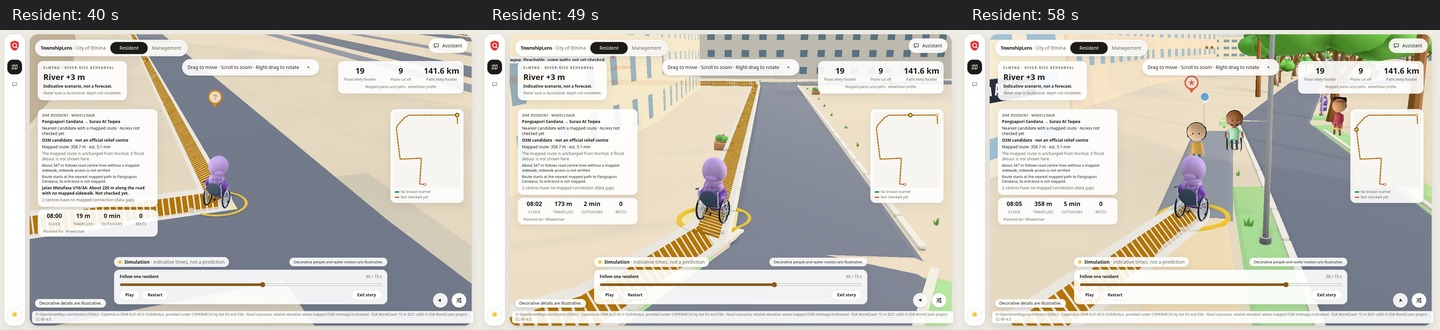
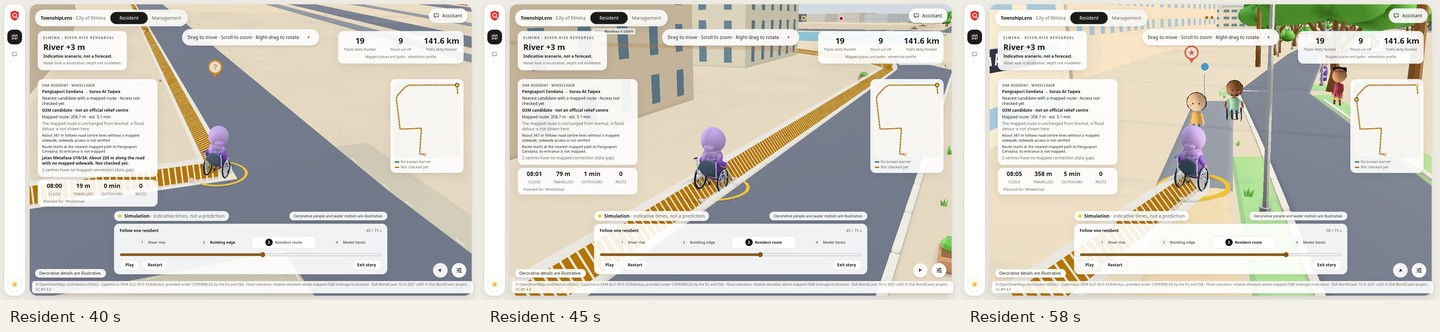
feat(web): add flood viewpoints from the visual reference (T-032)

diff --git a/apps/web/src/features/flood/FloodStoryOverlay.tsx b/apps/web/src/features/flood/FloodStoryOverlay.tsx
@@ -8,7 +8,7 @@ import { usePanel } from "../main/panelStore";
 import { WATER_LOOK_NOTE } from "./floodPresentation";
 import { floodRouteEvidence } from "./floodRouteEvidence";
 import { useFloodStory } from "./floodStoryStore";
-import { floodStateAt } from "./floodTimeline";
+import { BUILDINGS_AT, floodStateAt, RESIDENT_AT } from "./floodTimeline";
 import { impactSummary } from "./impactModel";
 
 export function FloodStoryOverlay() {
@@ -201,6 +201,28 @@ export function FloodStoryOverlay() {
               {Math.round(s.t)} / {Math.round(s.timeline?.total ?? 0)} s
             </span>
           </div>
+          <nav className="flood-chapters" aria-label="River story viewpoints">
+            {[
+              { phase: "river", label: "River rise", at: 0 },
+              { phase: "buildings", label: "Building edge", at: BUILDINGS_AT + 4 },
+              { phase: "resident", label: "Resident route", at: RESIDENT_AT + 1 },
+              { phase: "end", label: "Model limits", at: s.timeline?.endAt ?? 0 },
+            ].map((chapter, index) => (
+              <button
+                key={chapter.phase}
+                type="button"
+                className="flood-chapter"
+                aria-current={p?.phase === chapter.phase ? "step" : undefined}
+                disabled={!s.timeline}
+                onClick={() => s.seek(chapter.at)}
+              >
+                <span className="flood-chapter-dot" aria-hidden="true">
+                  {index + 1}
+                </span>
+                <span>{chapter.label}</span>
+              </button>
+            ))}
+          </nav>
           <input
             className="block w-full accent-lilac"
             type="range"

diff --git a/apps/web/src/features/flood/FloodStoryOverlay.dom.test.tsx b/apps/web/src/features/flood/FloodStoryOverlay.dom.test.tsx
@@ -30,6 +30,29 @@ const story = {
 afterEach(() => act(() => useFloodStory.getState().close()));
 
 describe("river playback UI", () => {
+  it("lets each viewpoint seek the same timeline while preserving pause and honest gaps", () => {
+    useFloodStory.getState().load(story);
+    render(<FloodStoryOverlay />);
+    const river = screen.getByRole("button", { name: "River rise" });
+    const buildings = screen.getByRole("button", { name: "Building edge" });
+    const resident = screen.getByRole("button", { name: "Resident route" });
+    const limits = screen.getByRole("button", { name: "Model limits" });
+    expect(river).toHaveAttribute("aria-current", "step");
+    fireEvent.click(buildings);
+    expect(buildings).toHaveAttribute("aria-current", "step");
+    expect(screen.getByTestId("flood-story")).toHaveAttribute("data-phase", "buildings");
+    fireEvent.click(resident);
+    expect(resident).toHaveAttribute("aria-current", "step");
+    expect(screen.getByRole("status")).toHaveTextContent("No mapped connection (data gap).");
+    expect(screen.queryByTestId("journey-hud")).toBeNull();
+    fireEvent.click(limits);
+    expect(limits).toHaveAttribute("aria-current", "step");
+    expect(screen.getByRole("region", { name: "River scenario limits" })).toBeVisible();
+    fireEvent.click(river);
+    expect(useFloodStory.getState().t).toBe(0);
+    expect(useFloodStory.getState().playing).toBe(false);
+    expect(river).toHaveAttribute("aria-current", "step");
+  });
   it("keeps the route's sidewalk and entrance caveats beside the resident", () => {
     const warnings = ["About 347 m has no mapped sidewalk.", "The home entrance is not mapped."];
     const residentStory = {

diff --git a/apps/web/src/features/flood/floodStory.css b/apps/web/src/features/flood/floodStory.css
@@ -11,6 +11,59 @@
 .flood-counter {
   animation: flood-counter-in 350ms ease-out both;
 }
+.flood-chapters {
+  display: grid;
+  grid-template-columns: repeat(4, minmax(0, 1fr));
+  gap: 4px;
+  margin: 0 0 10px;
+}
+.flood-chapter {
+  display: flex;
+  align-items: center;
+  justify-content: center;
+  gap: 7px;
+  min-height: 38px;
+  padding: 5px;
+  border: 1px solid transparent;
+  border-radius: 12px;
+  color: var(--c-fg-soft);
+  font-size: 11px;
+  font-weight: 600;
+}
+.flood-chapter:hover:not(:disabled) {
+  background: var(--c-raised);
+}
+.flood-chapter[aria-current="step"] {
+  border-color: var(--c-edge);
+  background: var(--c-surface);
+  color: var(--c-fg);
+}
+.flood-chapter-dot {
+  display: grid;
+  place-items: center;
+  flex: 0 0 22px;
+  height: 22px;
+  border: 1px solid var(--c-edge);
+  border-radius: 50%;
+  font-size: 10px;
+  font-variant-numeric: tabular-nums;
+}
+.flood-chapter[aria-current="step"] .flood-chapter-dot {
+  background: var(--c-fg);
+  border-color: var(--c-fg);
+  color: var(--c-surface);
+}
+.flood-chapter:disabled {
+  opacity: 0.5;
+}
+@media (max-width: 639px) {
+  .flood-chapter {
+    flex-direction: column;
+    gap: 4px;
+    font-size: 10px;
+    line-height: 1.2;
+  }
+}
 @media (prefers-reduced-motion: reduce) {
   .flood-counter {
     animation: none;

diff --git a/docs/superpowers/screenshots/t032/README.md b/docs/superpowers/screenshots/t032/README.md
@@ -67,7 +67,7 @@ The baseline and +3 m routes have exactly these five edges:
 the mapped route is unchanged and does not show the requested flood-detour tag for this seed.
 No route evaluation or data was altered to manufacture a detour.
 
-Dependency still pending: Claude's `setAmbientTraffic` is absent from DaVinci (683210bc) and
+Dependency still pending: Claude's `setAmbientTraffic` is absent from DaVinci (41ce937a) and
 his current worker branch (5b309d06). These captures therefore still contain ambient cars.
 The PR stays draft until his shared switch lands and the flood calls it. No independent switch
 is implemented here.
@@ -92,3 +92,29 @@ pause, repeatable camera seeks, honest failure states and Exit.
 All twenty cinematic captures and both theme strips were refreshed after this review. The
 cinematic checkpoint at 86006f95 passed all seven GitHub CI gates (run 39803286030). The latest
 checks and the pending shared-traffic requirement are reported on PR #40.
+
+## User reference review (23 Oct MYT)
+
+Yunzhe supplied `Doc2.docx`: four AI-generated concept images, with no text instructions. They
+show reflective water between buildings, blue building tags, a resident follow shot and a
+numbered story timeline. The existing river/reflection and building-band implementation covers
+the first two ideas. Four new viewpoint buttons now give direct access to River rise, Building
+edge, Resident route and Model limits, through the same deterministic camera and timeline.
+They preserve pause and expose the current step to screen readers.
+
+The concept labels are visual references, not evidence. Local depths, lower-floor impact, a
+"dry evacuation route", official assembly points and road closures are not asserted from those
+images. The real route remains partly unverified and unchanged at River +3 m. No AI-generated
+geometry, place or route facts were added to the seed.
+
+After merging DaVinci 41ce937a and adding viewpoint navigation: lint, workspace typecheck,
+2,989 web tests, generated-client drift, 26/26 mock golden cases and build pass. Eleven built-app
+probes pass, including all four native viewpoint buttons, unchanged-route/candidate labels and
+honest missing-data controls. The camera-return probe waits for the expected rendered pose,
+rather than a fixed 1.5 s on this software GPU. All twenty shots and both pairs of animation
+strips are refreshed for the viewpoint UI. The ambient-traffic switch remains the dependency
+listed above; no independent switch was added.
+
+Four further built-app control checks pass: Play advances and Pause freezes; Play at the
+completed end restarts; Restart returns to Normal and plays; Exit during Play removes the
+story without a page error. Both theme capture runs also exit cleanly, with no shader errors.

diff --git a/apps/web/README.md b/apps/web/README.md
@@ -949,3 +949,10 @@ barrier stays a barrier. Technical HTTP codes are not used as resident-facing ex
 Flood playback hides cached marathon course dressing through the existing overlay wiring;
 it does not change marathon rendering code. Starting a day or rollout scene closes the flood
 story, just as starting another journey does, so only one playback owns the camera.
+
+The four viewpoint buttons (River rise, Building edge, Resident route, Model limits) seek that
+same timeline without changing play/pause. They adapt Yunzhe's four-image `Doc2.docx` visual
+reference: clear numbered story stages and direct access to each shot. Its illustrative depth,
+"dry route", lower-floor and road-closure claims are not copied into the product. Those claims
+are not supported by this seed's route or flood outputs. The selected viewpoint is exposed with
+`aria-current="step"`; the native slider remains available for exact seeks.
